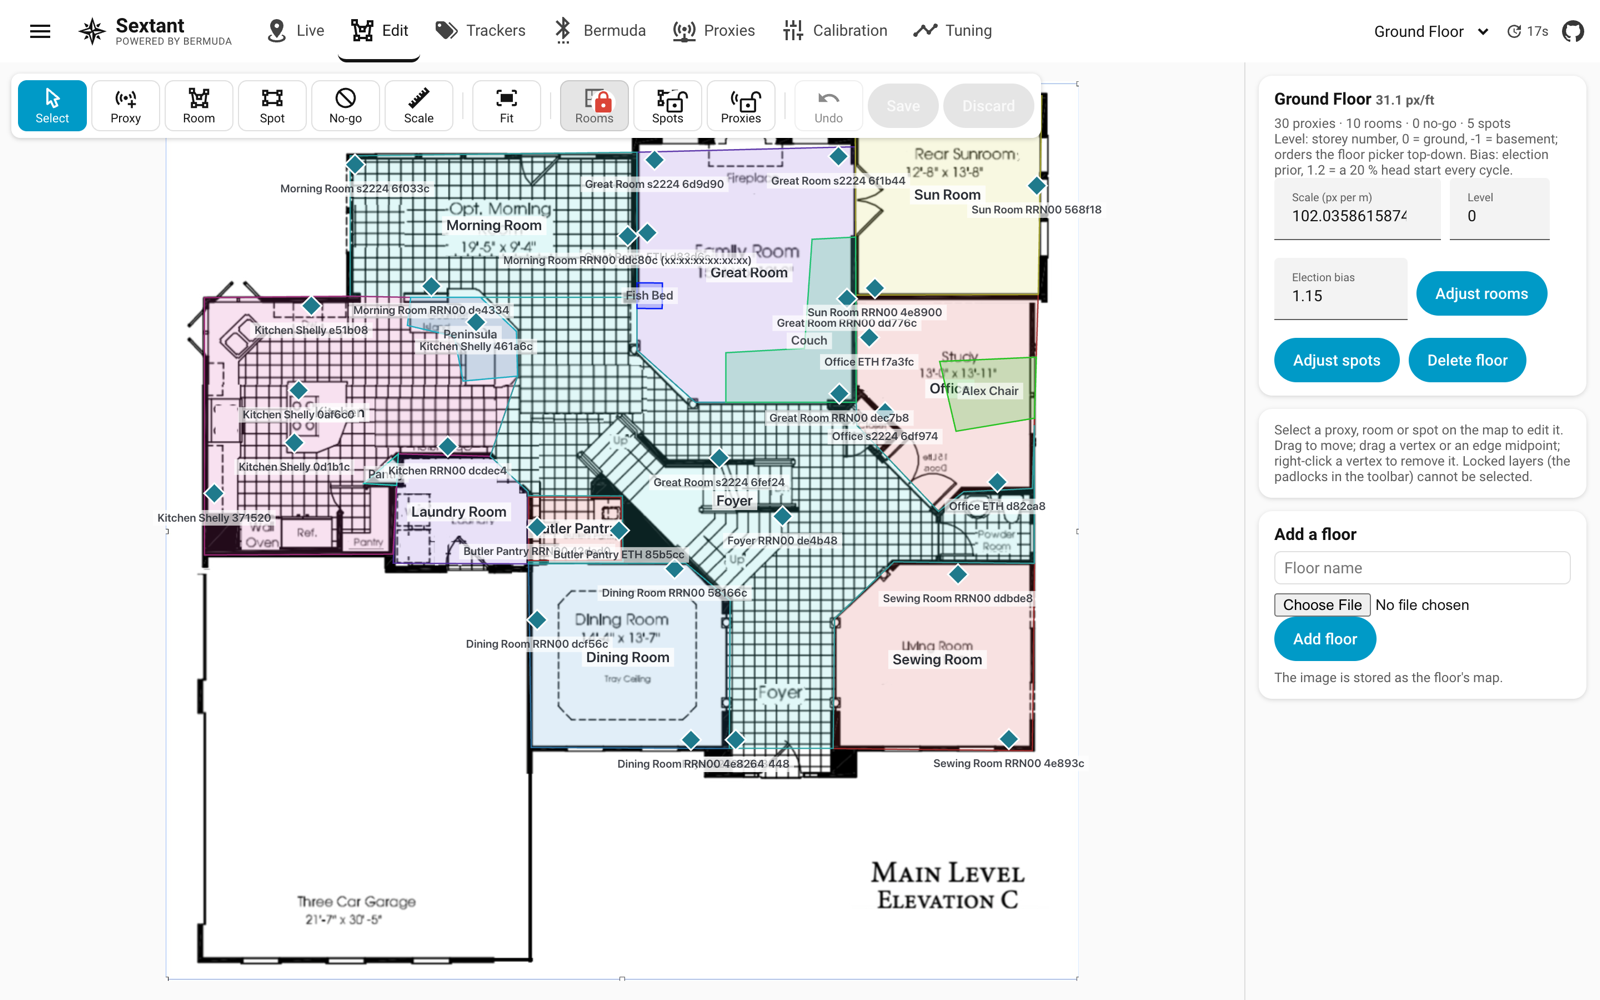
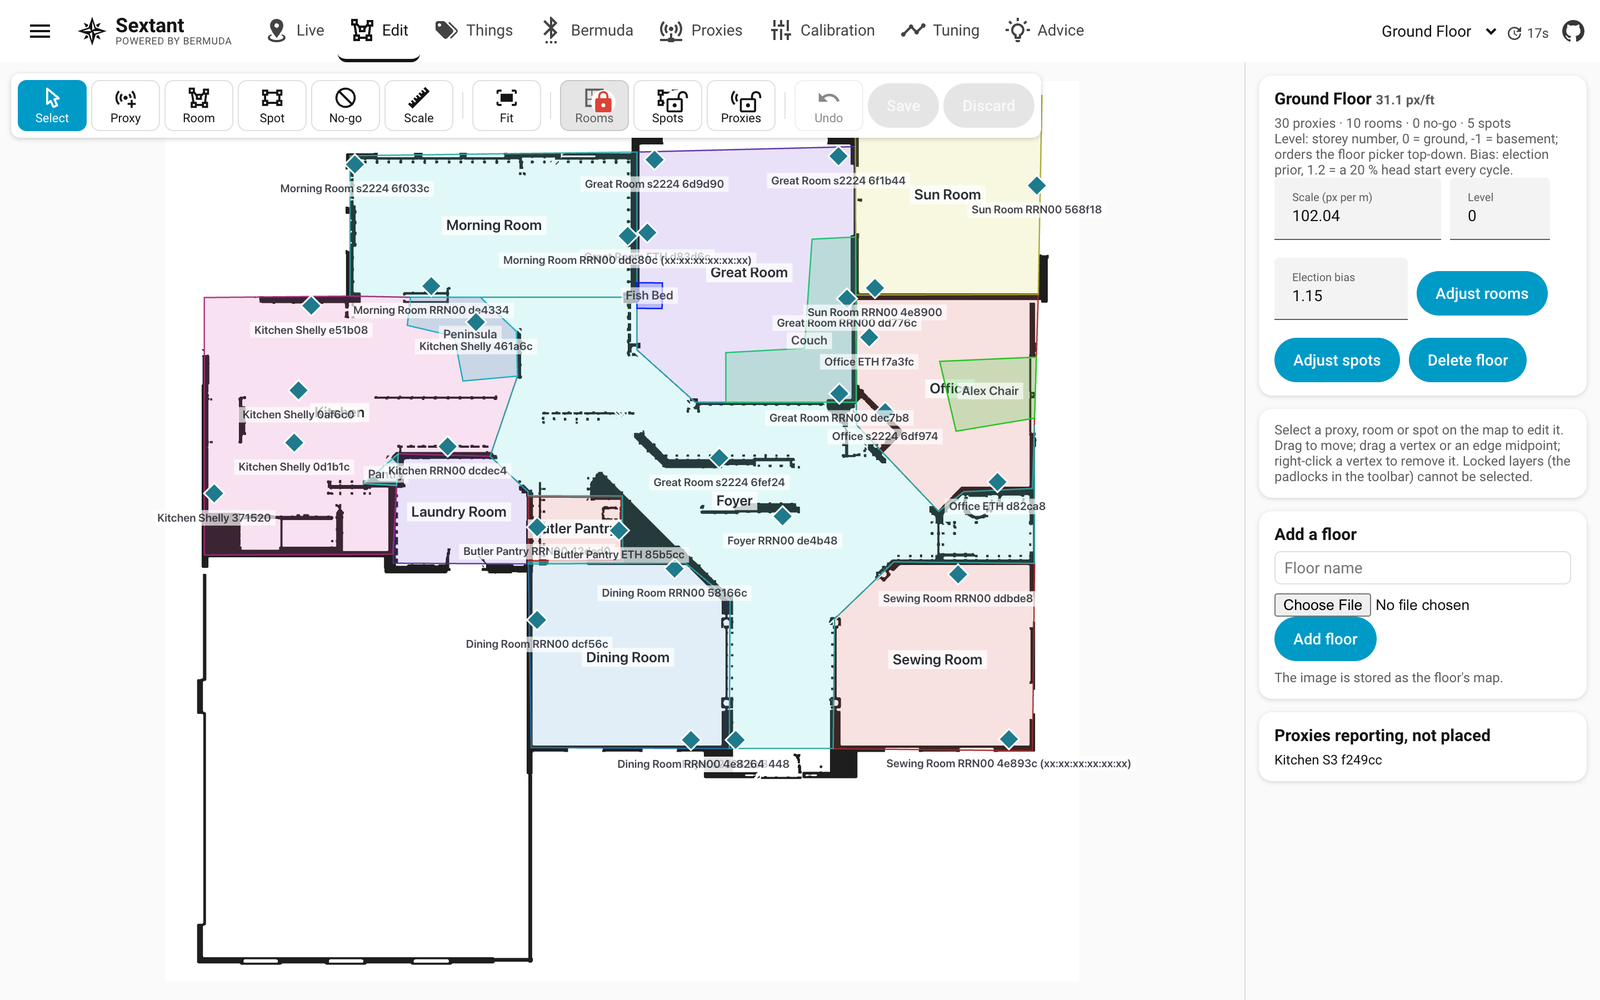
README screenshots re-shot against 3.12.3, and the Advice page gets one
They still showed a Trackers tab, no Advice tab, the busy builder's plan and
the old heavy no-go fill. Re-shot from the same redacting script (names
swapped for stand-ins, addresses masked), with the Advice page added to its
own doc since it never had a picture.

diff --git a/docs/advice.md b/docs/advice.md
@@ -2,6 +2,8 @@
 
 # Advice
 
+![The Advice page: one change plan per floor, worst floor first, each with its own tally and a button that marks every suggested spot on the plan](../img/screenshots/sextant-advice.png)
+
 Which rooms the proxies serve worst, and where one more would help. Press
 **Analyse the house** and every room on every floor is judged two ways:
 
